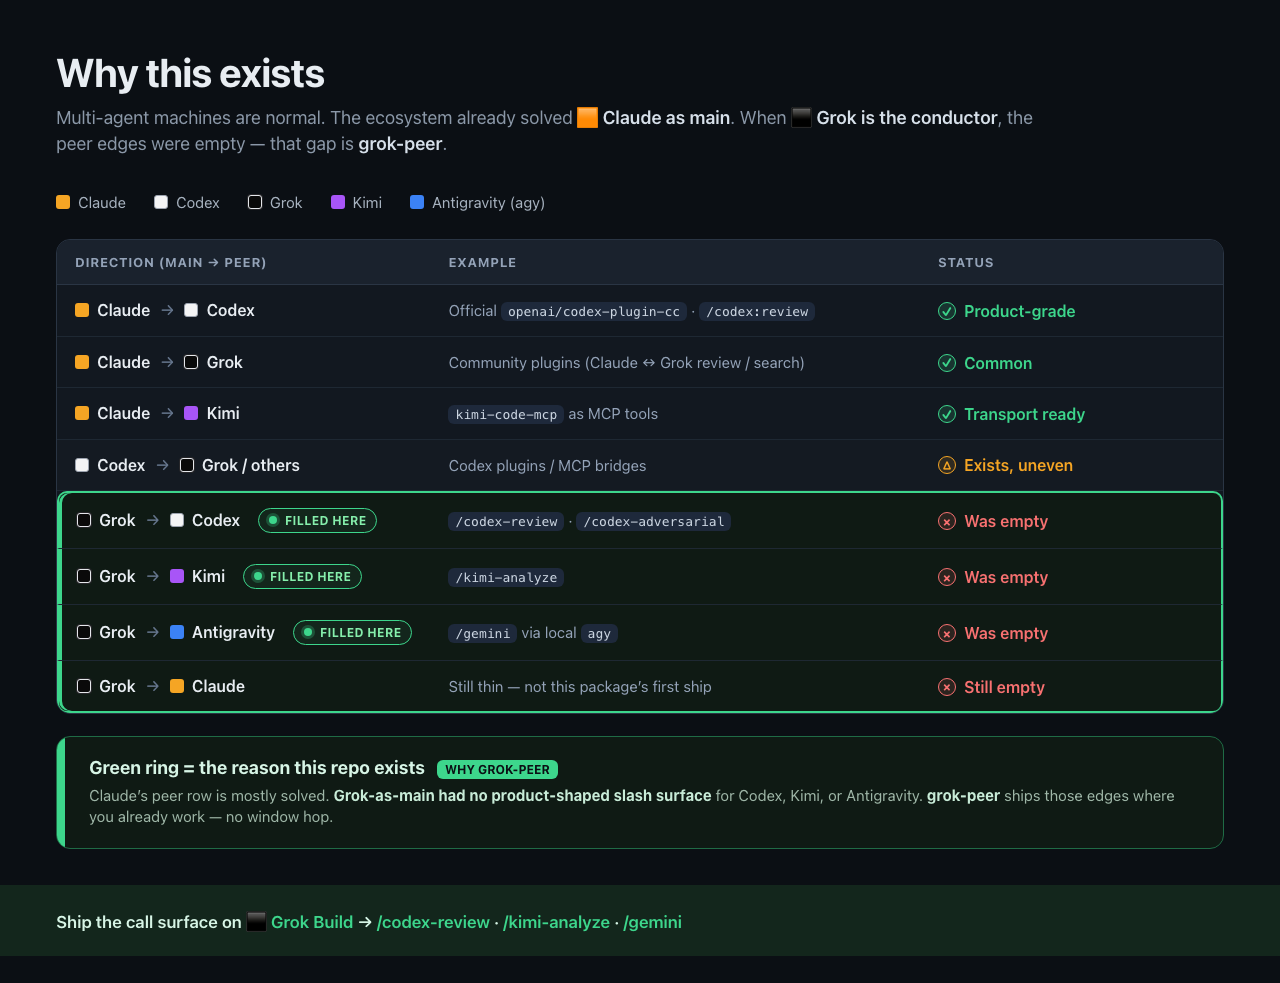
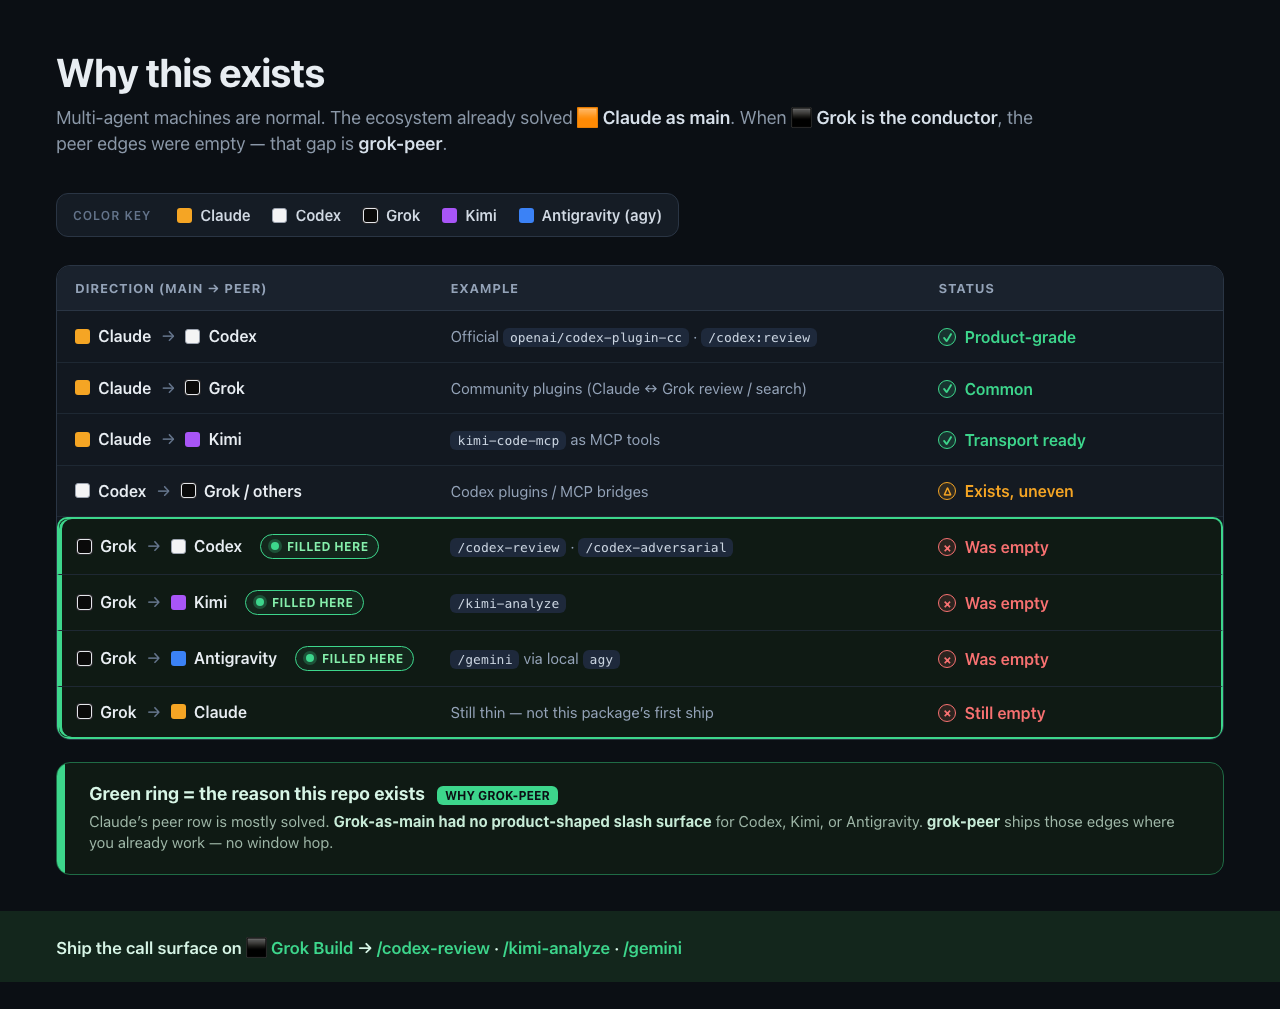
docs: bake color key into figure; drop markdown caption under image

diff --git a/assets/fig-why-direction.html b/assets/fig-why-direction.html
@@ -33,16 +33,30 @@
   .legend {
     display: flex;
     flex-wrap: wrap;
-    gap: 18px 28px;
+    align-items: center;
+    gap: 10px 22px;
     margin-bottom: 28px;
+    padding: 12px 16px;
     font-size: 15px;
-    color: #a8b3c0;
+    color: #d1d9e3;
+    background: #151c25;
+    border: 1px solid #2a3544;
+    border-radius: 12px;
+    width: fit-content;
   }
-  .legend span { display: inline-flex; align-items: center; gap: 8px; }
+  .legend-label {
+    font-size: 12px;
+    font-weight: 700;
+    letter-spacing: 0.08em;
+    text-transform: uppercase;
+    color: #64748b;
+    margin-right: 4px;
+  }
+  .legend span { display: inline-flex; align-items: center; gap: 8px; font-weight: 600; }
   .sq {
     display: inline-block;
-    width: 14px;
-    height: 14px;
+    width: 15px;
+    height: 15px;
     border-radius: 3px;
     flex-shrink: 0;
   }
@@ -237,6 +251,7 @@
   </p>
 
   <div class="legend">
+    <span class="legend-label">Color key</span>
     <span><i class="sq sq-claude"></i> Claude</span>
     <span><i class="sq sq-codex"></i> Codex</span>
     <span><i class="sq sq-grok"></i> Grok</span>

diff --git a/README.md b/README.md
@@ -24,15 +24,10 @@
 In 2026 most machines run **several** coding agents at once — Claude Code, Codex, Grok Build, Kimi, Antigravity, Cursor… each with its own login and quota. The ecosystem already solved **🟧 Claude as main**. When **⬛ Grok is the conductor**, the peer edges were empty.
 
 <p align="center">
-  <img src="assets/fig-why-direction.png" alt="Direction map: Claude peer edges are filled; Grok → Codex / Kimi / Antigravity was empty — green ring shows why grok-peer exists" width="100%" />
+  <img src="assets/fig-why-direction.png" alt="Direction map with color key: Claude peer edges are filled; green ring marks Grok → Codex / Kimi / Antigravity gap that grok-peer fills" width="100%" />
 </p>
 
-<p align="center"><sub>
-  Color key: 🟧 Claude · ⬜ Codex · ⬛ Grok · 🟪 Kimi · 🟦 Antigravity (<code>agy</code>).
-  Green ring = the gap this package ships.
-</sub></p>
-
-**This package fills the Grok-as-main (⬛) row.** If your daily driver is **Grok Build**, opening Claude just to run `/codex` is the wrong UX — peers should live **where you already are**.
+**This package fills the Grok-as-main row.** If your daily driver is **Grok Build**, opening Claude just to run `/codex` is the wrong UX — peers should live **where you already are**.
 
 <details>
 <summary>Text table (same data, accessible / copy-paste)</summary>